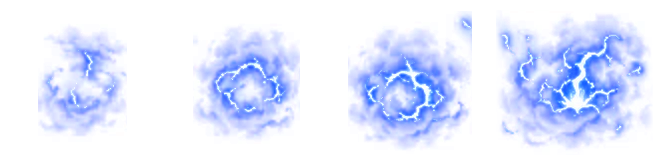
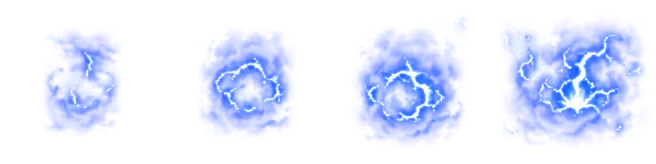
Fix Kirin frame borders: skip broken frames, stronger edge fade; import-fx --feather and multi-range --pick

diff --git a/tools/import-fx.ts b/tools/import-fx.ts
@@ -14,12 +14,13 @@
  *   --frames N        how many frames are in the (single-row) image. Cuts it at the emptiest places, which also works when
  *                     frames touch, overlap or are joined by glow. Recommended whenever you know the count
  *   --crop L,T,R,B    only use this part of the image (pixels, or fractions 0-1 of its size), e.g. --crop 0,0,0.32,1
- *   --pick A-B       use only frames A to B (1-based, in reading order), so one image can hold several effects
+ *   --pick A-B,C     use only frames A to B (and C...) (1-based, in reading order), so one image can hold several effects
  *   --cell N | WxH    frame size in px (default: just big enough for the largest frame, at most 512)
  *   --fill            stretch each frame to the whole cell (backgrounds such as a domain; use with --grid and --bg none)
  *   --fps N           frame rate        --loop | --once      override the default for this part
  *   --size PX         on-screen width in arena px (the arena is 900 wide, a fighter is about 90)
  *   --blend add|normal   how it is drawn (default: add for black backgrounds, otherwise normal)
+ *   --feather F       how wide the edge fade is, as a fraction of the frame (default 0.09; raise it for frames cut out of busy glow)
  *   --no-feather      keep the hard cut edges of frames (by default they fade out over a small margin)
  *   --no-rotate       a projectile body should not turn to face its heading
  *   --copy-to FOLDER  also save the source and results there
@@ -291,8 +292,13 @@ async function main(): Promise<void> {
   }
   console.log(`Found ${frames.length} frame(s) in the image.`);
   if (opts.pick) {
-    const [a, b] = String(opts.pick).split('-').map(Number);
-    frames = frames.slice(a - 1, b ?? a);
+    // e.g. 5-9 or 1-4,6,8-10 (skip frames that came out badly)
+    const keep = new Set<number>();
+    for (const part of String(opts.pick).split(',')) {
+      const [a, b] = part.split('-').map(Number);
+      for (let n = a; n <= (b ?? a); n++) keep.add(n);
+    }
+    frames = frames.filter((_, i) => keep.has(i + 1));
   }
   if (!frames.length) {
     console.error('No frames found. Is the image empty, or the background not removed? Try --bg black, --bg flat or --grid CxR.');
@@ -328,7 +334,7 @@ async function main(): Promise<void> {
     // Where a frame was cut out of a neighbouring glow or haze, the cut edge would show as a hard square.
     // Fade the alpha out over a margin along each edge so frames blend away smoothly (--no-feather to skip).
     const piece = Buffer.alloc(f.width * f.height * 4);
-    const margin = Math.max(6, Math.round(Math.min(f.width, f.height) * 0.09));
+    const margin = Math.max(6, Math.round(Math.min(f.width, f.height) * Number(opts.feather ?? 0.09)));
     for (let y = 0; y < f.height; y++) {
       for (let x = 0; x < f.width; x++) {
         const from = ((f.top + y) * w + f.left + x) * 4;
